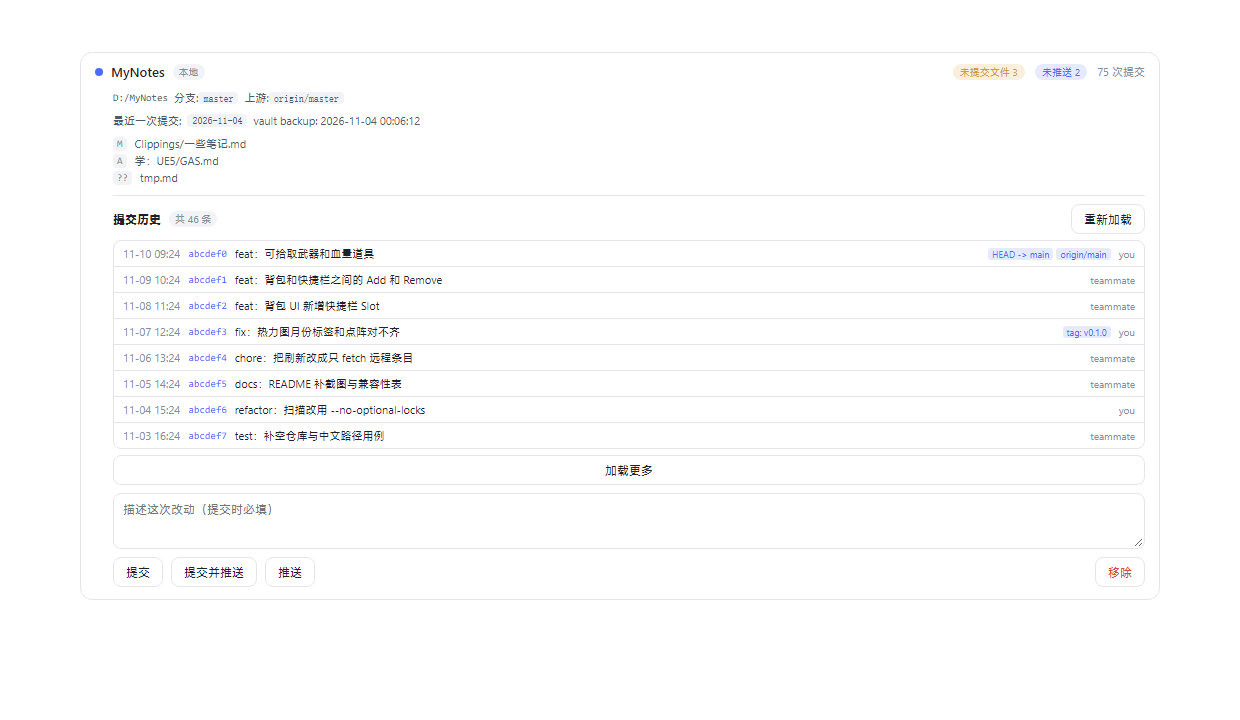
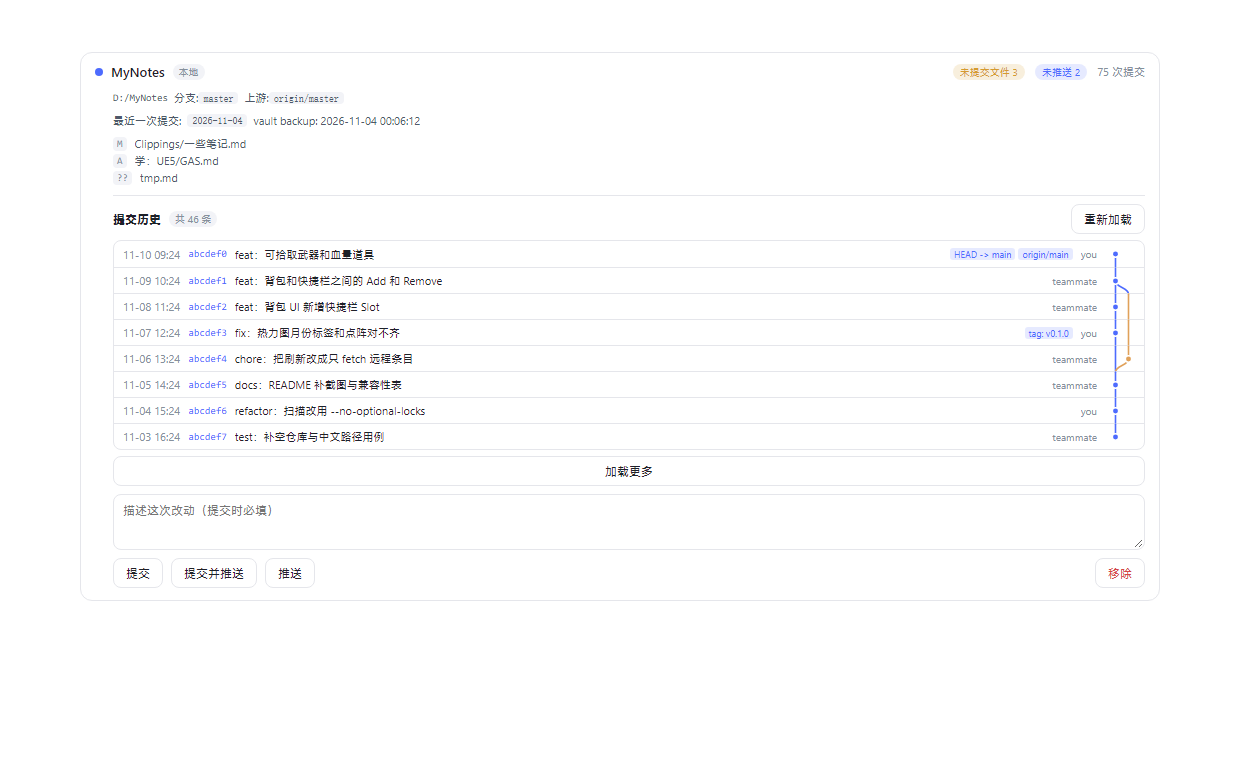
feat: 提交历史右侧显示可视化提交图（0.3.0）
- 宿主半侧：log 接口增加 %P（父提交）并改用 --topo-order，保证父提交一定排在子提交之后，
  浏览器半侧才能据此画出正确的泳道
- 浏览器半侧：computeGraph 按父提交计算每条提交所在泳道与连线；每条提交行右侧新增
  SVG 提交图（贯穿泳道 / 进出节点 / 合并与分叉曲线 / 节点圆点），随分页整段重算不断线
- 测试：客户端渲染断言提交图存在，合成数据覆盖合并场景；README 与截图更新，版本 0.3.0

diff --git a/lib/client.js b/lib/client.js
@@ -296,8 +296,10 @@ window.__ModuleLoader__.load({
 .ghm-history-title{font-weight:600;}
 .ghm-history-list{display:flex;flex-direction:column;max-height:280px;overflow:auto;
   border:1px solid var(--dsw-alias-border-l1);border-radius:8px;}
-.ghm-commit{display:flex;align-items:center;gap:8px;padding:5px 9px;font-size:11px;
+.ghm-commit{display:flex;align-items:center;gap:8px;height:26px;padding:0 9px;font-size:11px;
   border-top:1px solid var(--dsw-alias-border-l1);}
+.ghm-commit-graph{flex:none;display:flex;align-items:center;margin-left:4px;}
+.ghm-graph{display:block;overflow:visible;}
 .ghm-commit:first-child{border-top:none;}
 .ghm-commit:hover{background:var(--dsw-alias-bg-layer-2);}
 .ghm-commit-date{color:var(--dsw-alias-label-tertiary);font-variant-numeric:tabular-nums;white-space:nowrap;flex:none;}
@@ -379,6 +381,127 @@ window.__ModuleLoader__.load({
       if (level <= 0) return { background: EMPTY_FILL }
       if (level >= 4) return { background: '#4D6BFE' }
       return { background: `rgba(77,107,254,${LEVEL_ALPHA[level]})` }
+    }
+
+    // ── 提交图（右侧的节点与连线）────────────────────────────
+    const LANE_WIDTH = 13
+    const GRAPH_ROW_HEIGHT = 26
+
+    /** 从「按拓扑倒序 + 父提交」的列表里算每条提交所在泳道、以及需要画的连线。
+     *  只对「当前已加载的这一段」计算；翻页后整段重算，所以分页之间不会断线。 */
+    function computeGraph(commits) {
+      const lanes = []
+      const rows = []
+      let laneCount = 1
+      for (const commit of commits) {
+        const expected = []
+        for (let index = 0; index < lanes.length; index += 1) {
+          if (lanes[index] === commit.hash) expected.push(index)
+        }
+        let lane
+        if (expected.length > 0) {
+          lane = expected[0]
+        } else {
+          const free = lanes.indexOf(null)
+          lane = free === -1 ? lanes.length : free
+          if (free === -1) lanes.push(null)
+        }
+        const before = lanes.slice()
+        for (const index of expected) lanes[index] = null
+
+        const parents = commit.parents || []
+        const edges = []
+        if (parents.length > 0) {
+          const first = parents[0]
+          const existing = lanes.indexOf(first)
+          if (existing >= 0 && existing !== lane) {
+            edges.push({ from: lane, to: existing, color: lane, kind: 'parent' })
+            lanes[lane] = null
+          } else {
+            lanes[lane] = first
+          }
+          for (const parent of parents.slice(1)) {
+            const found = lanes.indexOf(parent)
+            if (found >= 0) {
+              edges.push({ from: lane, to: found, color: lane, kind: 'parent' })
+            } else {
+              let free = lanes.indexOf(null)
+              if (free === -1) {
+                free = lanes.length
+                lanes.push(null)
+              }
+              lanes[free] = parent
+              edges.push({ from: lane, to: free, color: lane, kind: 'parent' })
+            }
+          }
+        } else {
+          lanes[lane] = null
+        }
+        for (const index of expected.slice(1)) {
+          edges.push({ from: index, to: lane, color: index, kind: 'incoming' })
+        }
+
+        rows.push({ lane, edges, before, after: lanes.slice() })
+        laneCount = Math.max(laneCount, before.length, lanes.length)
+      }
+      return { rows, laneCount }
+    }
+
+    /** 一条提交右侧的图形：贯穿线 + 进出节点的连线 + 节点圆点。 */
+    function CommitGraphCell(props) {
+      const { row, laneCount } = props
+      const width = Math.max(1, laneCount) * LANE_WIDTH
+      const height = GRAPH_ROW_HEIGHT
+      const mid = height / 2
+      const x = (index) => index * LANE_WIDTH + LANE_WIDTH / 2
+      if (!row) {
+        return h('svg', { className: 'ghm-graph', width, height, viewBox: `0 0 ${width} ${height}`, 'aria-hidden': 'true' })
+      }
+
+      const segments = []
+      // 上下都还活着的泳道：整条竖线穿过去
+      row.before.forEach((hash, index) => {
+        if (hash && row.after[index] && index !== row.lane) {
+          segments.push({ key: `pass${index}`, d: `M${x(index)} 0 L${x(index)} ${height}`, color: index })
+        }
+      })
+      // 本节点自己那条：从上进节点 / 从节点往下
+      if (row.before[row.lane]) {
+        segments.push({ key: 'in', d: `M${x(row.lane)} 0 L${x(row.lane)} ${mid}`, color: row.lane })
+      }
+      if (row.after[row.lane]) {
+        segments.push({ key: 'out', d: `M${x(row.lane)} ${mid} L${x(row.lane)} ${height}`, color: row.lane })
+      }
+      // 合并进来的 / 分岔出去的其他父提交：画曲线
+      row.edges.forEach((edge, index) => {
+        const fromX = x(edge.from)
+        const toX = x(edge.to)
+        const d = edge.kind === 'incoming'
+          ? `M${fromX} 0 C${fromX} ${mid / 2} ${toX} ${mid / 2} ${toX} ${mid}`
+          : `M${fromX} ${mid} C${fromX} ${mid + (height - mid) / 2} ${toX} ${mid + (height - mid) / 2} ${toX} ${height}`
+        segments.push({ key: `edge${index}`, d, color: edge.color })
+      })
+
+      return h(
+        'svg',
+        { className: 'ghm-graph', width, height, viewBox: `0 0 ${width} ${height}`, 'aria-hidden': 'true' },
+        segments.map((segment) => h('path', {
+          key: segment.key,
+          d: segment.d,
+          fill: 'none',
+          stroke: colorOf(segment.color),
+          strokeWidth: 1.6,
+          strokeLinecap: 'round',
+        })),
+        h('circle', {
+          cx: x(row.lane),
+          cy: mid,
+          r: 3.2,
+          fill: colorOf(row.lane),
+          stroke: 'var(--dsw-alias-bg-layer-1)',
+          strokeWidth: 1.5,
+        }),
+      )
     }
 
     function computeStreaks(days) {
@@ -659,6 +782,8 @@ window.__ModuleLoader__.load({
     function RepoRow(props) {
       const { repo, index, expanded, t, onToggle, onRemove, onCommit, busy, history, onLoadHistory } = props
       const [message, setMessage] = useState('')
+      const commits = (history && history.commits) || []
+      const graph = useMemo(() => computeGraph(commits), [history])
       const dirty = repo.dirty ?? 0
       const ahead = repo.ahead ?? 0
       const canCommit = repo.kind === 'local' && dirty > 0 && message.trim().length > 0
@@ -730,12 +855,10 @@ window.__ModuleLoader__.load({
               : null,
             history && history.commits && history.commits.length > 0
               ? h('div', { className: 'ghm-history-list' },
-                history.commits.map((commit) => h('div', {
+                history.commits.map((commit, commitIndex) => h('div', {
                   key: commit.hash,
                   className: 'ghm-commit',
-                  title: `${commit.hash}
-${commit.author}
-${commit.date}`,
+                  title: `${commit.hash}\n${commit.author}\n${commit.date}`,
                 },
                 h('span', { className: 'ghm-commit-date' }, formatCommitDate(commit.date)),
                 h('span', { className: 'ghm-commit-hash' }, commit.short),
@@ -743,7 +866,11 @@ ${commit.date}`,
                 commit.refs
                   ? h('span', { className: 'ghm-commit-refs' }, commit.refs.split(',').slice(0, 2).map((ref, refIndex) => h('span', { key: `r${refIndex}`, className: 'ghm-ref' }, ref.trim())))
                   : null,
-                h('span', { className: 'ghm-commit-author' }, commit.author))))
+                h('span', { className: 'ghm-commit-author' }, commit.author),
+                h('span', { className: 'ghm-commit-graph' }, h(CommitGraphCell, {
+                  row: graph.rows[commitIndex],
+                  laneCount: graph.laneCount,
+                })))))
               : null,
             history && history.commits && history.commits.length === 0 && !history.loading && !history.error
               ? h('div', { className: 'ghm-kv' }, t('noCommits'))
@@ -1192,7 +1319,7 @@ ${commit.date}`,
       apply,
       PANEL_ID,
       /** 仅供本地渲染测试调用，运行时不使用。 */
-      __internals: { GitHeatPanel, DayHeatmap, MonthHeatmap, YearHeatmap, RepoRow, computeStreaks },
+      __internals: { GitHeatPanel, DayHeatmap, MonthHeatmap, YearHeatmap, RepoRow, computeStreaks, computeGraph },
     }
   },
 })

diff --git a/lib/index.js b/lib/index.js
@@ -523,12 +523,13 @@ async function logCommits(id, options) {
 
   const limit = Math.min(200, Math.max(1, Number(options?.limit) || 40))
   const skip = Math.min(200_000, Math.max(0, Number(options?.skip) || 0))
-  const format = ['%H', '%h', '%ad', '%an', '%D', '%s'].join('%x1f') + '%x1e'
+  const format = ['%H', '%h', '%ad', '%an', '%D', '%P', '%s'].join('%x1f') + '%x1e'
 
   const result = await git(dir, [
     '--no-optional-locks',
     'log',
     '--all',
+    '--topo-order',
     '--decorate=short',
     '--date=iso-strict',
     `--pretty=format:${format}`,
@@ -545,13 +546,15 @@ async function logCommits(id, options) {
 
   const records = result.stdout.split('').map((chunk) => chunk.trim()).filter(Boolean)
   const commits = records.slice(0, limit).map((record) => {
-    const [hash, short, date, author, refs, ...rest] = record.split('')
+    const [hash, short, date, author, refs, parents, ...rest] = record.split('')
     return {
       hash: hash ?? '',
       short: short ?? '',
       date: date ?? '',
       author: author ?? '',
       refs: (refs ?? '').trim(),
+      // 父提交（空格分隔的完整 hash）：浏览器半侧据此画提交图
+      parents: (parents ?? '').trim() ? parents.trim().split(/\s+/) : [],
       subject: rest.join('').trim(),
     }
   })

diff --git a/README.md b/README.md
@@ -16,6 +16,8 @@
 - **统计小卡**：总提交、最近一次提交（仓库 + 日期 + 标题）、当前 / 最长连续提交天数、未提交文件数与未推送提交数。
 - **提交历史**：展开任意仓库即可看到该仓库的提交历史（日期 / 短 hash / 提交信息 / 分支与 tag 标记 / 作者），
   分页加载（每页 30 条），只读、不含每次提交的具体改动。
+- **提交图**：每条提交右侧有一列可视化节点——按父提交关系算出的泳道、节点与合并/分叉曲线，
+  和 `git log --graph` 的读法一致（同一条泳道＝同一条提交线）。
 - **面板内提交 / 推送**：展开仓库行即可操作。`提交` = `git add -A` + `git commit -m`；`提交并推送` 再加 `git push`（无上游时 `push -u origin HEAD`）。**永远不带 `--force`**，远程条目是只读裸库、不能提交。
 - **远程仓库不需要 token**：走 bare 克隆（不存文件内容），GitHub / Gitee / 自建 GitLab / ssh 地址通用。
 
@@ -33,7 +35,7 @@ dsh plugin --profile <profile> add dsh-git-heatmap
 dsh plugin --profile <profile> add github:<user>/dsh-git-heatmap
 
 # 本地打好的 tgz
-dsh plugin --profile <profile> add <路径>/dsh-git-heatmap-0.2.0.tgz
+dsh plugin --profile <profile> add <路径>/dsh-git-heatmap-0.3.0.tgz
 ```
 
 Desktop 版：在 **插件** 页搜索包名安装，或按上面的 `dsh plugin` 命令装进 Desktop 使用的 profile
